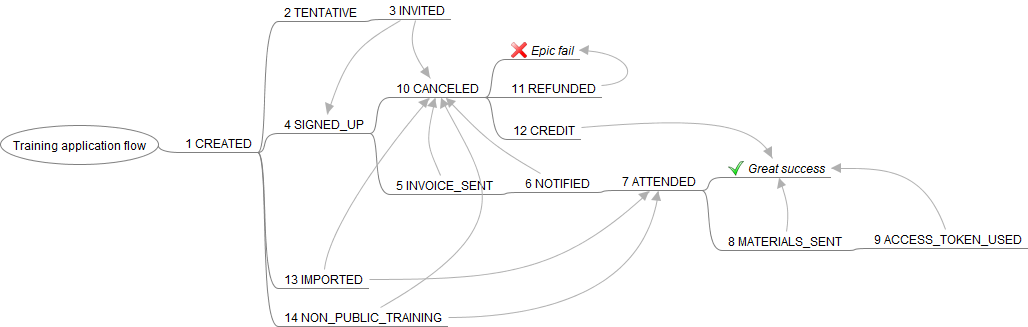
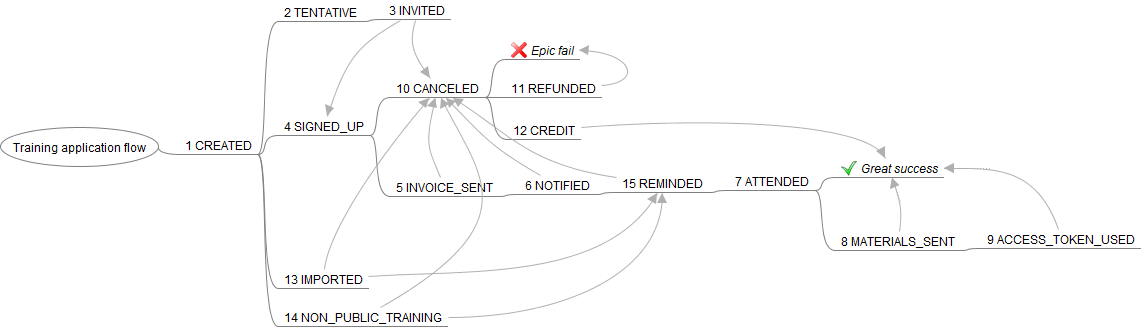
Add REMINDED status to docs - set when the reminder is sent few days before the training

diff --git a/docs/training_application_flow.mm b/docs/training_application_flow.mm
@@ -10,7 +10,7 @@
 </node>
 </node>
 <node CREATED="1355610796532" ID="ID_1756582487" MODIFIED="1355617410792" TEXT="4 SIGNED_UP" VGAP="18">
-<node CREATED="1355610850487" ID="ID_1175474475" MODIFIED="1387566363781" TEXT="10 CANCELED" VGAP="18">
+<node CREATED="1355610850487" ID="ID_1175474475" MODIFIED="1415815484564" TEXT="10 CANCELED" VGAP="18">
 <node CREATED="1355612401716" ID="ID_438026523" MODIFIED="1355617431736" TEXT="Epic fail">
 <font ITALIC="true" NAME="SansSerif" SIZE="12"/>
 <icon BUILTIN="button_cancel"/>
@@ -24,30 +24,33 @@
 </node>
 <node CREATED="1355610800385" ID="ID_1032920025" MODIFIED="1387566347300" TEXT="5 INVOICE_SENT">
 <arrowlink DESTINATION="ID_1175474475" ENDARROW="Default" ENDINCLINATION="-11;46;" ID="Arrow_ID_1408376146" STARTARROW="None" STARTINCLINATION="-13;-31;"/>
-<node CREATED="1355610831825" ID="ID_1075044975" MODIFIED="1387566363780" TEXT="6 NOTIFIED">
+<node CREATED="1355610831825" ID="ID_1075044975" MODIFIED="1415815238325" TEXT="6 NOTIFIED">
 <arrowlink DESTINATION="ID_1175474475" ENDARROW="Default" ENDINCLINATION="38;39;" ID="Arrow_ID_1310256158" STARTARROW="None" STARTINCLINATION="-50;-29;"/>
-<node CREATED="1355610836241" ID="ID_1743884845" MODIFIED="1356477866648" TEXT="7 ATTENDED">
+<node CREATED="1415815238185" ID="ID_613030399" MODIFIED="1415815481116" TEXT="15 REMINDED">
+<arrowlink DESTINATION="ID_1175474475" ENDARROW="Default" ENDINCLINATION="55;34;" ID="Arrow_ID_258465881" STARTARROW="None" STARTINCLINATION="-89;-13;"/>
+<node CREATED="1355610836241" ID="ID_1743884845" MODIFIED="1415815356160" TEXT="7 ATTENDED">
 <node CREATED="1355611320041" ID="ID_869199593" MODIFIED="1355617435824" TEXT="Great success">
 <font ITALIC="true" NAME="SansSerif" SIZE="12"/>
 <icon BUILTIN="button_ok"/>
 </node>
 <node CREATED="1355610842304" ID="ID_1274643579" MODIFIED="1355677686146" TEXT="8 MATERIALS_SENT" VSHIFT="48">
-<arrowlink DESTINATION="ID_869199593" ENDARROW="Default" ENDINCLINATION="8;24;" ID="Arrow_ID_582953279" STARTARROW="None" STARTINCLINATION="3;-21;"/>
+<arrowlink DESTINATION="ID_869199593" ENDARROW="Default" ENDINCLINATION="8;24;" ID="Arrow_ID_852173153" STARTARROW="None" STARTINCLINATION="3;-21;"/>
 <node CREATED="1355610847007" ID="ID_337062274" MODIFIED="1355615605304" TEXT="9 ACCESS_TOKEN_USED">
-<arrowlink DESTINATION="ID_869199593" ENDARROW="Default" ENDINCLINATION="47;0;" ID="Arrow_ID_1229536177" STARTARROW="None" STARTINCLINATION="-23;-65;"/>
+<arrowlink DESTINATION="ID_869199593" ENDARROW="Default" ENDINCLINATION="47;0;" ID="Arrow_ID_1780808541" STARTARROW="None" STARTINCLINATION="-23;-65;"/>
 </node>
 </node>
 </node>
 </node>
 </node>
 </node>
-<node CREATED="1355616634924" ID="ID_841067494" MODIFIED="1387566317524" TEXT="13 IMPORTED">
+</node>
+<node CREATED="1355616634924" ID="ID_841067494" MODIFIED="1415815353227" TEXT="13 IMPORTED">
 <arrowlink COLOR="#b0b0b0" DESTINATION="ID_1175474475" ENDARROW="Default" ENDINCLINATION="-52;60;" ID="Arrow_ID_575919759" STARTARROW="None" STARTINCLINATION="4;-38;"/>
-<arrowlink DESTINATION="ID_1743884845" ENDARROW="Default" ENDINCLINATION="-88;82;" ID="Arrow_ID_53531402" STARTARROW="None" STARTINCLINATION="134;0;"/>
+<arrowlink DESTINATION="ID_613030399" ENDARROW="Default" ENDINCLINATION="-52;88;" ID="Arrow_ID_853160798" STARTARROW="None" STARTINCLINATION="103;-7;"/>
 </node>
-<node CREATED="1356477650225" ID="ID_894633253" MODIFIED="1387566336300" TEXT="14 NON_PUBLIC_TRAINING">
+<node CREATED="1356477650225" ID="ID_894633253" MODIFIED="1415815484564" TEXT="14 NON_PUBLIC_TRAINING">
 <arrowlink DESTINATION="ID_1175474475" ENDARROW="Default" ENDINCLINATION="37;76;" ID="Arrow_ID_359661777" STARTARROW="None" STARTINCLINATION="153;-87;"/>
-<arrowlink DESTINATION="ID_1743884845" ENDARROW="Default" ENDINCLINATION="-14;110;" ID="Arrow_ID_789002642" STARTARROW="None" STARTINCLINATION="73;0;"/>
+<arrowlink DESTINATION="ID_613030399" ENDARROW="Default" ENDINCLINATION="0;82;" ID="Arrow_ID_96225950" STARTARROW="None" STARTINCLINATION="111;0;"/>
 </node>
 </node>
 </node>
